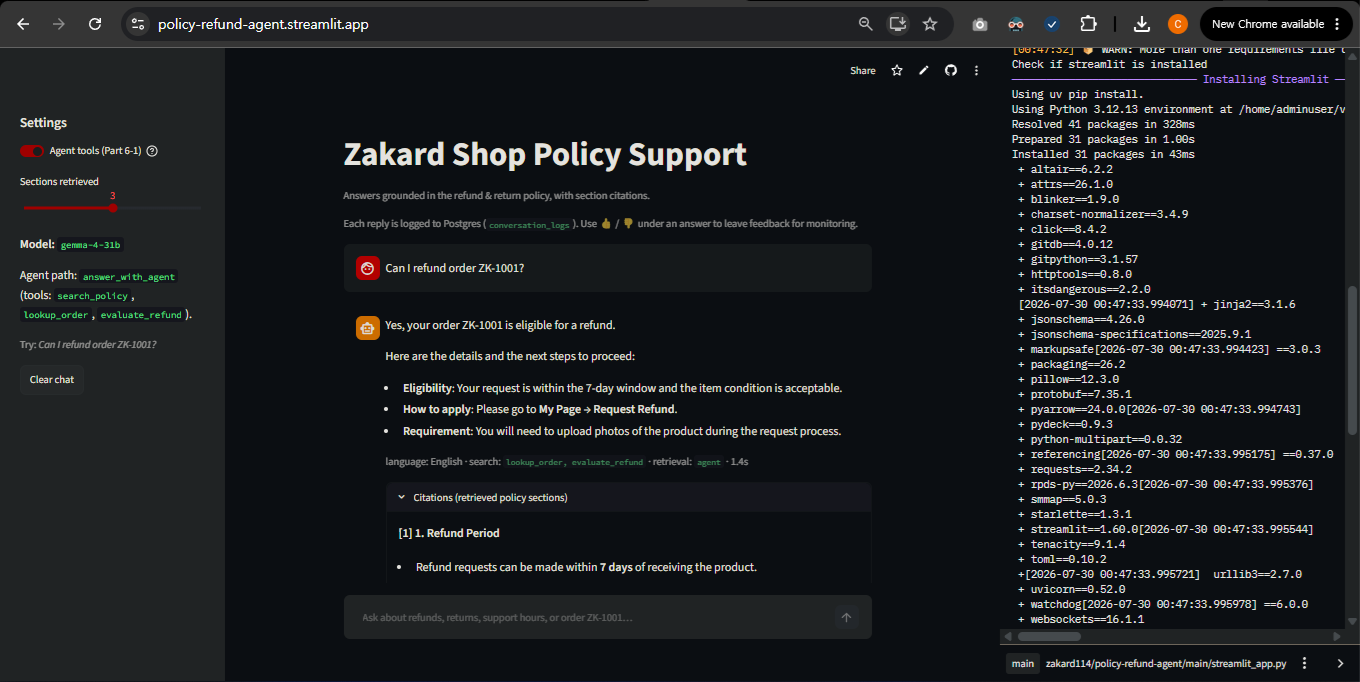
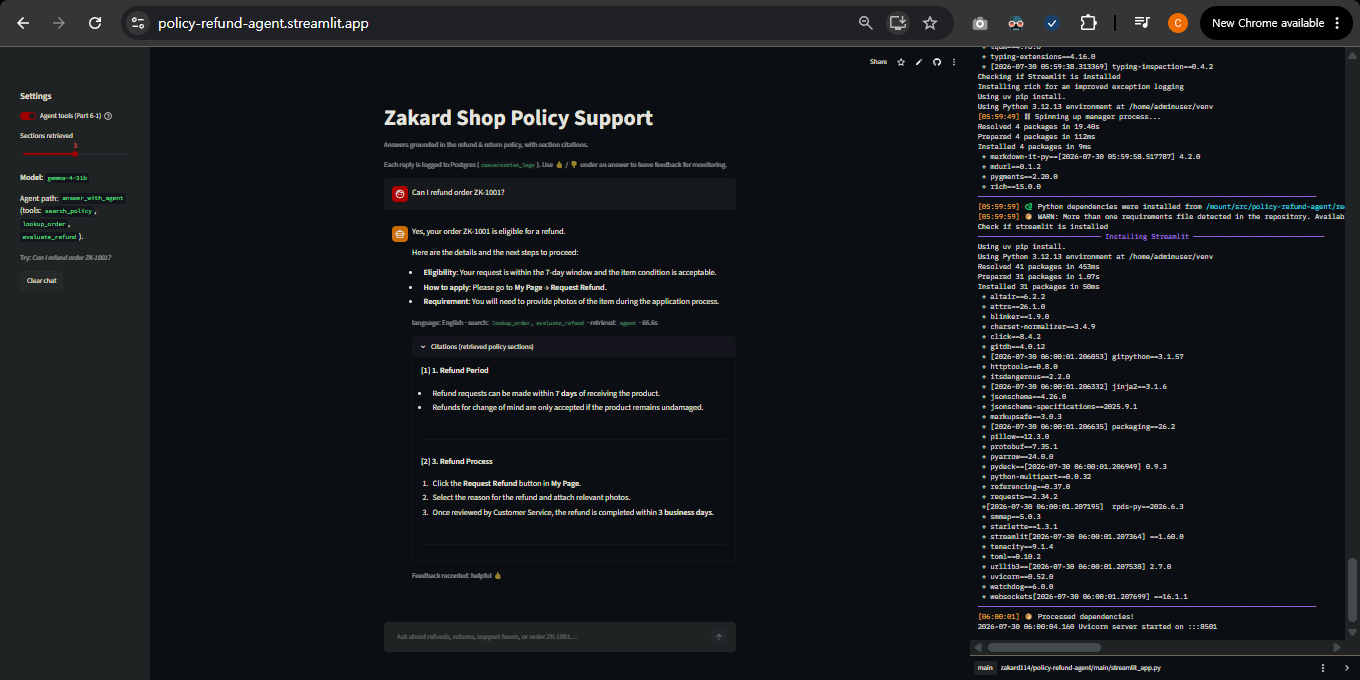
Refresh Cloud thumbs screenshots and add Grafana Neon after.
Document Cloud feedback on Neon and keep monitoring evidence in README.

diff --git a/docs/images/README.md b/docs/images/README.md
@@ -23,6 +23,7 @@ Stable aliases (same bytes as hybrid):
 | `monitoring/grafana-before.png` | Cold start — Questions `0` / No data |
 | `monitoring/streamlit-feedback.png` | Live ask + Citations + **Feedback recorded: helpful 👍** |
 | `monitoring/grafana-after.png` | After ask — latency, citations, **Thumbs up ≥ 1** |
+| `monitoring/grafana-neon-after.png` | Optional — Grafana on Neon (Cloud thumbs / logs) |
 
 Sequence: empty dashboard → Streamlit question with 👍 → Grafana metrics update.
 
@@ -36,7 +37,7 @@ Sequence: empty dashboard → Streamlit question with 👍 → Grafana metrics u
 
 | File | Description |
 |------|-------------|
-| `cloud/streamlit-cloud-zk1001-ui.png` | Clean UI only — `ZK-1001` eligible (no manage-app log) |
+| `cloud/streamlit-cloud-zk1001-ui.png` | Clean UI — `ZK-1001` eligible + 👍/feedback (no manage-app log) |
 | `cloud/streamlit-cloud-zk1001.png` | Same answer + Cloud manage-app / install log |
 
 ## Archive

diff --git a/README.md b/README.md
@@ -149,6 +149,10 @@ Grafana: http://localhost:3002 · Streamlit: http://localhost:8502
 
 ![Grafana after live ask + feedback](docs/images/monitoring/grafana-after.png)
 
+Optional — same dashboard with Grafana datasource pointed at **Neon** (Cloud `conversation_logs`):
+
+![Grafana after Cloud traffic on Neon](docs/images/monitoring/grafana-neon-after.png)
+
 ### Docker Compose (Streamlit in container)
 
 Compose stack on `:8502` — refund Q&A + citations + 👍 (`docker compose up -d streamlit`).
@@ -158,7 +162,7 @@ Compose stack on `:8502` — refund Q&A + citations + 👍 (`docker compose up -
 ### Cloud (Streamlit Community Cloud)
 
 Live public app — https://policy-refund-agent.streamlit.app/  
-Agent tools on; demo order `ZK-1001` → **eligible**.
+Agent tools on; demo order `ZK-1001` → **eligible**; Cloud 👍 via Neon Postgres.
 
 | Shot | File |
 |------|------|
